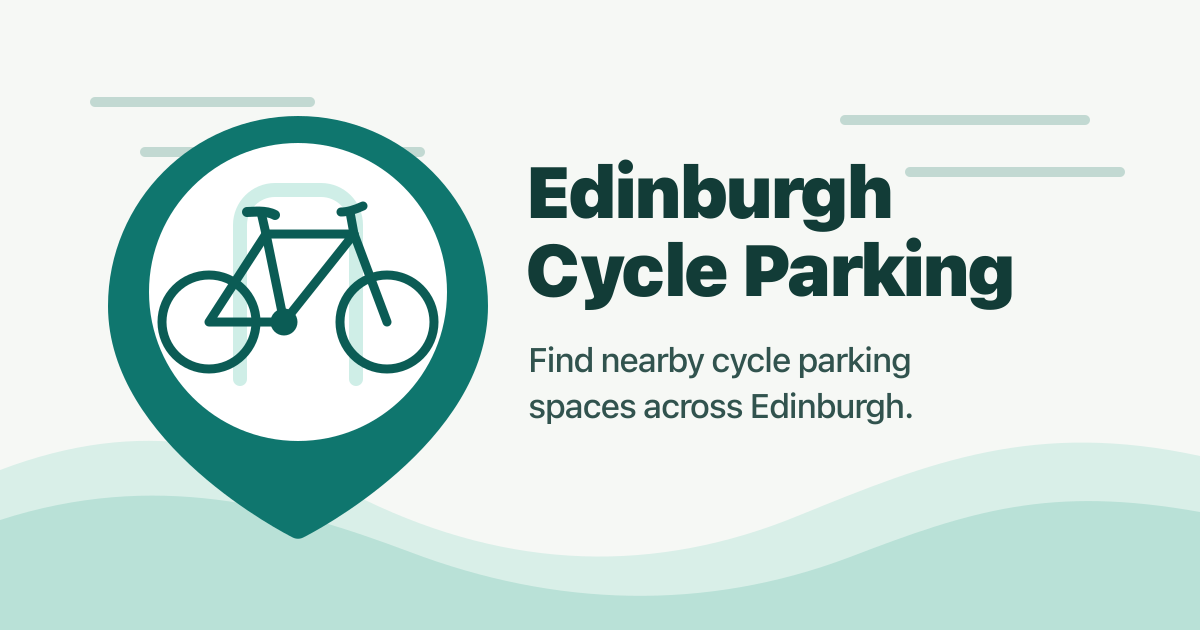
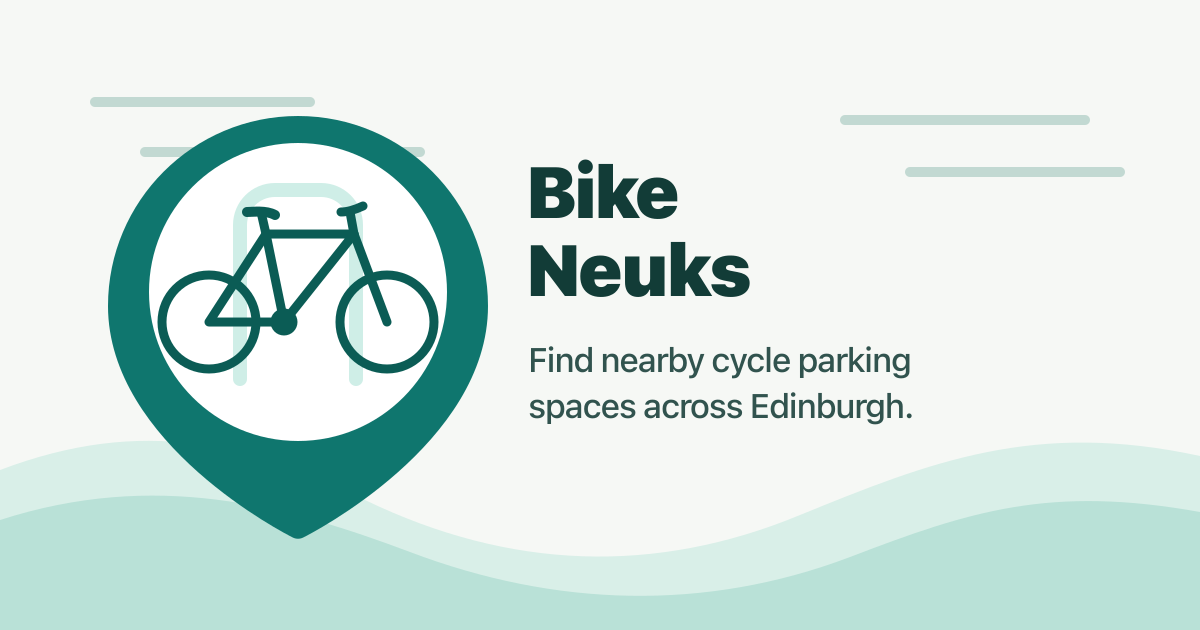
chore: change site url

Changed region(s): [[0.4317, 0.2413, 0.8633, 0.5127]]

diff --git a/src/lib/geo.test.ts b/src/lib/geo.test.ts
@@ -433,12 +433,8 @@ describe('geo utilities', () => {
 
   it('builds parking share links without dropping the current base path', () => {
     expect(
-      buildParkingShareUrl(
-        'https://taugr.github.io',
-        '/edinburgh-cycle-parking',
-        'near',
-      ),
-    ).toBe('https://taugr.github.io/edinburgh-cycle-parking/parking/near/');
+      buildParkingShareUrl('https://taugr.github.io', '/neuk-bike', 'near'),
+    ).toBe('https://taugr.github.io/neuk-bike/parking/near/');
   });
 
   it('builds root-hosted parking share links for the custom domain', () => {
@@ -451,10 +447,10 @@ describe('geo utilities', () => {
     expect(
       buildParkingShareUrl(
         'https://taugr.github.io',
-        '/edinburgh-cycle-parking/parking/near',
+        '/neuk-bike/parking/near',
         'far',
       ),
-    ).toBe('https://taugr.github.io/edinburgh-cycle-parking/parking/far/');
+    ).toBe('https://taugr.github.io/neuk-bike/parking/far/');
   });
 
   it('parses valid URL coordinates and rejects invalid coordinates', () => {

diff --git a/src/components/cycle-parking-finder.tsx b/src/components/cycle-parking-finder.tsx
@@ -1020,8 +1020,11 @@ export default function CycleParkingFinder() {
                 <img src="favicon.svg" alt="" />
               </div>
               <div>
-                <h1>Edinburgh Cycle Parking</h1>
-                <p>{formattedParkingLocationCount} bike neuks</p>
+                <h1>Bike Neuks</h1>
+                <p>
+                  {formattedParkingLocationCount} cycle parking spots in
+                  Edinburgh
+                </p>
               </div>
               {renderThemeSettings()}
             </header>

diff --git a/src/app/layout.tsx b/src/app/layout.tsx
@@ -6,8 +6,8 @@ import './globals.css';
 
 const siteUrl = 'https://neuk.bike';
 const sitePath = '/';
-const siteTitle = 'Edinburgh Cycle Parking';
-const siteDescription = 'Find nearby cycle parking spaces across Edinburgh.';
+const siteTitle = 'Bike Neuks';
+const siteDescription = 'Find nearby cycle parking across Edinburgh.';
 const socialImage = '/og-image.png';
 const lightThemeColor = '#0f766e';
 const darkThemeColor = '#0f1715';
@@ -71,7 +71,7 @@ export default function RootLayout({
         <link rel="manifest" href={assetPath('/site.webmanifest')} />
         <meta name="mobile-web-app-capable" content="yes" />
         <meta name="apple-mobile-web-app-capable" content="yes" />
-        <meta name="apple-mobile-web-app-title" content="Cycle Parking" />
+        <meta name="apple-mobile-web-app-title" content="Bike Neuks" />
         <meta
           name="apple-mobile-web-app-status-bar-style"
           content="black-translucent"

diff --git a/next-env.d.ts b/next-env.d.ts
@@ -1,6 +1,6 @@
 /// <reference types="next" />
 /// <reference types="next/image-types/global" />
-import './.next/dev/types/routes.d.ts';
+import "./.next/dev/types/routes.d.ts";
 
 // NOTE: This file should not be edited
 // see https://nextjs.org/docs/app/api-reference/config/typescript for more information.

diff --git a/public/sw.js b/public/sw.js
@@ -1,4 +1,4 @@
-const cachePrefix = 'edinburgh-cycle-parking-';
+const cachePrefix = 'neuk-bike-';
 const cacheName = `${cachePrefix}v3`;
 const scopePath = new URL(self.registration.scope).pathname;
 const appBasePath = scopePath.endsWith('/')

diff --git a/CONTRIBUTING.md b/CONTRIBUTING.md
@@ -1,4 +1,4 @@
-# Contributing to edinburgh-cycle-parking
+# Contributing to neuk-bike
 
 Thanks for contributing.
 
@@ -12,8 +12,8 @@ Requirements:
 Clone the repo and install dependencies:
 
 ```bash
-git clone https://github.com/taugr/edinburgh-cycle-parking.git
-cd edinburgh-cycle-parking
+git clone https://github.com/taugr/neuk-bike.git
+cd neuk-bike
 pnpm install
 ```
 
@@ -61,4 +61,4 @@ pnpm run test
 
 ## Questions
 
-Open an issue at [https://github.com/taugr/edinburgh-cycle-parking/issues](https://github.com/taugr/edinburgh-cycle-parking/issues).
+Open an issue at [https://github.com/taugr/neuk-bike/issues](https://github.com/taugr/neuk-bike/issues).

diff --git a/README.md b/README.md
@@ -1,7 +1,7 @@
-# Edinburgh Cycle Parking
+# Bike Neuks
 
 <p align="center">
-  <img src="./public/icon-192.png" alt="Edinburgh Cycle Parking icon" width="140" />
+  <img src="./public/icon-192.png" alt="Bike Neuks icon" width="140" />
   <br />
   <a href="https://neuk.bike/">
     <img src="https://img.shields.io/badge/live-GitHub%20Pages-0f766e" alt="live app" />
@@ -10,7 +10,7 @@
     <img src="https://img.shields.io/badge/license-MIT-blue" alt="license" />
   </a>
   <br />
-  Static, mobile-friendly map for finding nearby City of Edinburgh Council cycle parking.
+  Static, mobile-friendly map for finding nearby cycle parking across Edinburgh.
 </p>
 
 ## Features

diff --git a/SECURITY.md b/SECURITY.md
@@ -1,8 +1,8 @@
 # Security Policy
 
-If you believe you have found a security vulnerability in `edinburgh-cycle-parking`, please use GitHub's private vulnerability reporting flow:
+If you believe you have found a security vulnerability in `neuk-bike`, please use GitHub's private vulnerability reporting flow:
 
-[Report a vulnerability](https://github.com/taugr/edinburgh-cycle-parking/security)
+[Report a vulnerability](https://github.com/taugr/neuk-bike/security)
 
 Please do not open public issues for suspected vulnerabilities.
 
@@ -13,4 +13,4 @@ When reporting, include:
 - reproduction steps or a minimal proof of concept
 - impact and any relevant mitigations
 
-Use the latest released version of `edinburgh-cycle-parking` when verifying whether an issue is still reproducible.
+Use the latest released version of `neuk-bike` when verifying whether an issue is still reproducible.